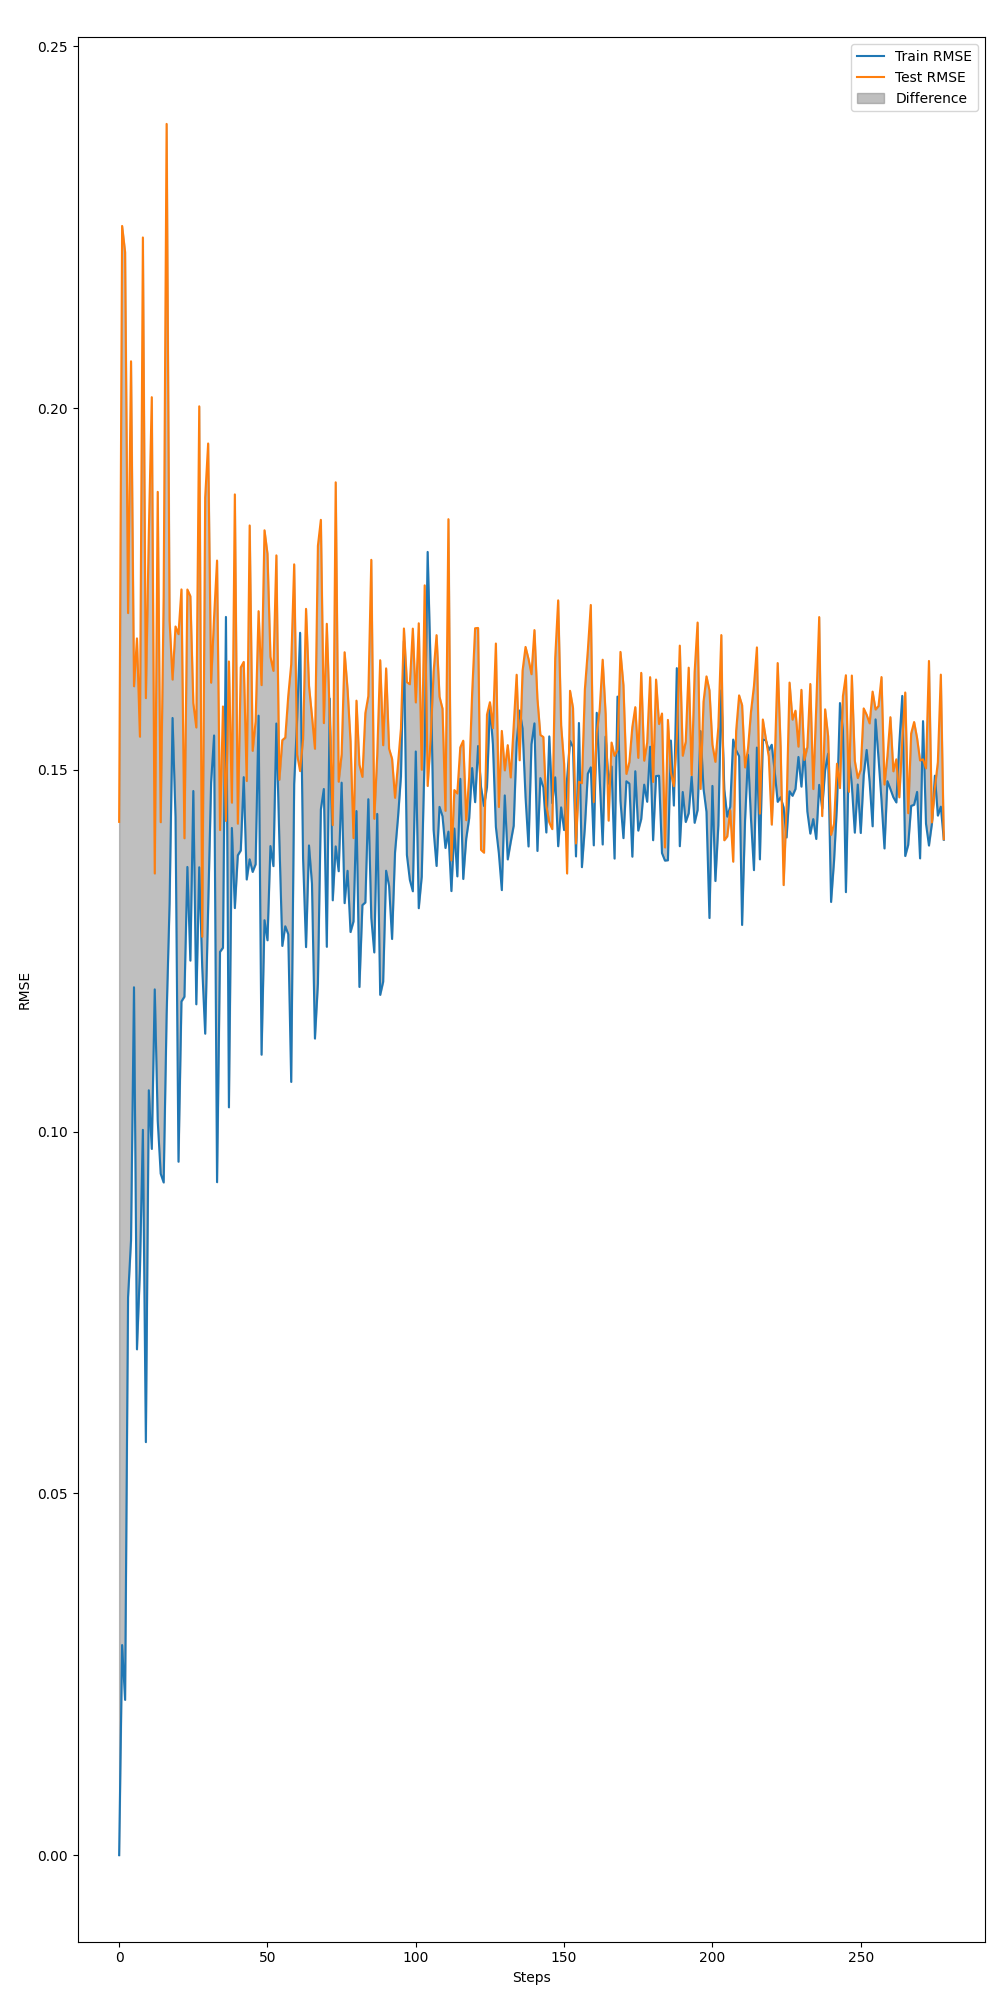
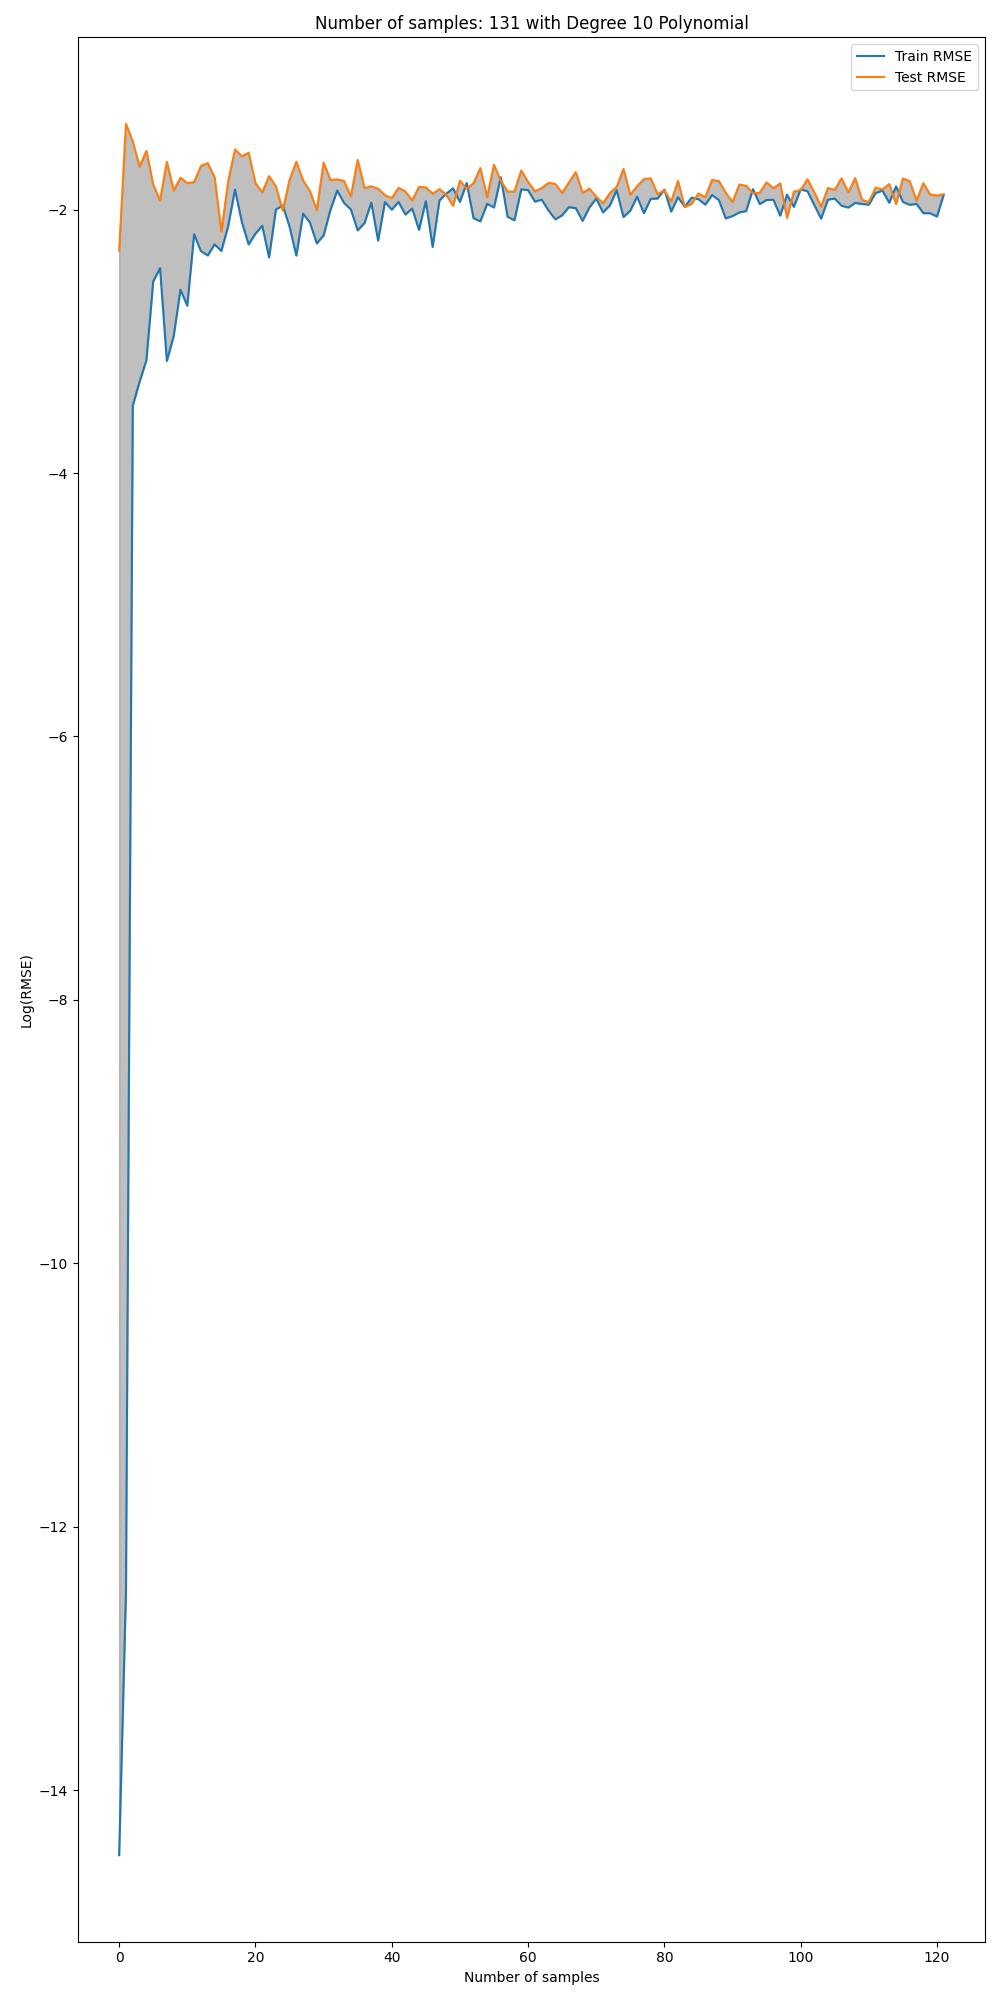
Take logrithm of RMSError and Plot new figure

diff --git a/exercise/ex01/template.py b/exercise/ex01/template.py
@@ -153,19 +153,22 @@ def vary_data_size(x_train, y_train, x_test, y_test, model_degree, noise_amplitu
     return steps, train_err, test_err, n_samples
    
 
-steps, train_err, test_err, n_samples = vary_data_size(x_train, y_train, x_test, y_test, 10, 0.15, 11, 1)
+steps, train_err, test_err, n_samples = vary_data_size(x_train, y_train, x_test, y_test, 10, 0.15, 10, 1)
 
 # Plot the Train RMSE and Test RMSE and also shows the difference between them
-def plot_rmse_diff(train_err, test_err, steps):
-    plt.plot(range(steps), train_err, label='Train RMSE')
-    plt.plot(range(steps), test_err, label='Test RMSE')
-    plt.fill_between(range(steps), train_err, test_err, color='gray', alpha=0.5, label='Difference')
-    plt.xlabel("Steps")
-    plt.ylabel("RMSE")
+def plot_rmse_diff(train_err, test_err, n_samples):
+    # Take Logrithm of the RMSE values and plot them with the number of samples
+    plt.plot(np.log(train_err), label='Train RMSE')
+    plt.plot(np.log(test_err), label='Test RMSE')
+    # Fill the area between the two lines
+    plt.fill_between(range(len(train_err)), np.log(train_err), np.log(test_err), color='gray', alpha=0.5)
+    plt.xlabel("Number of samples")
+    plt.ylabel("Log(RMSE)")
+    plt.title(f"Number of samples: {n_samples} with Degree 10 Polynomial")
     plt.legend()
     plt.show()
 
-plot_rmse_diff(train_err, test_err, steps)
+plot_rmse_diff(train_err, test_err, n_samples)
 plt.savefig('RMSE_diff.png')
 plt.clf()
 
